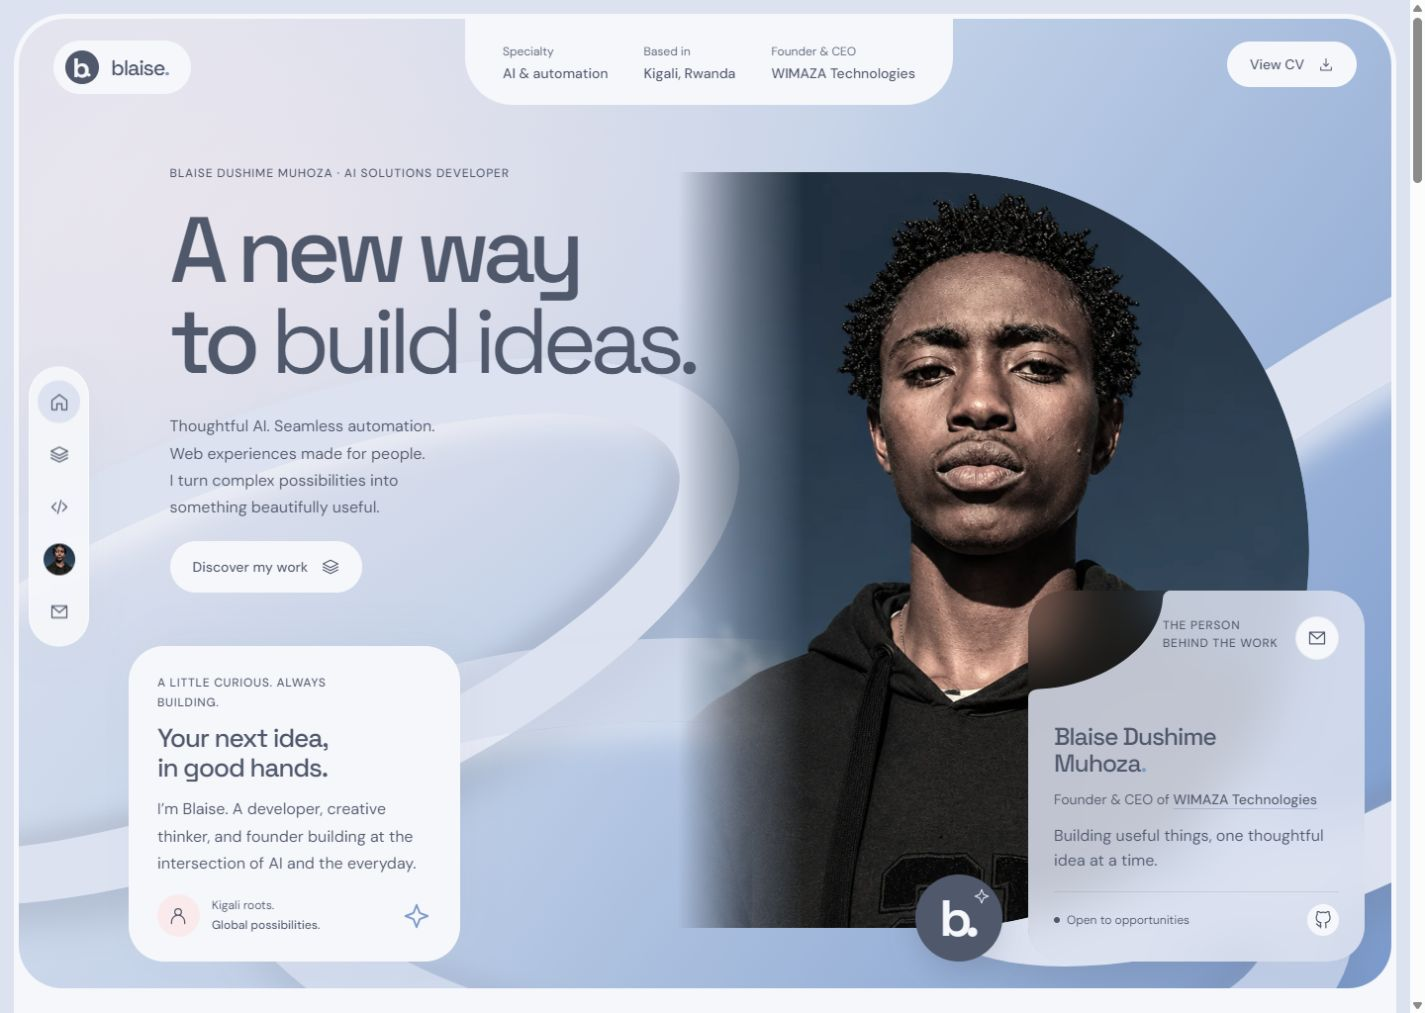
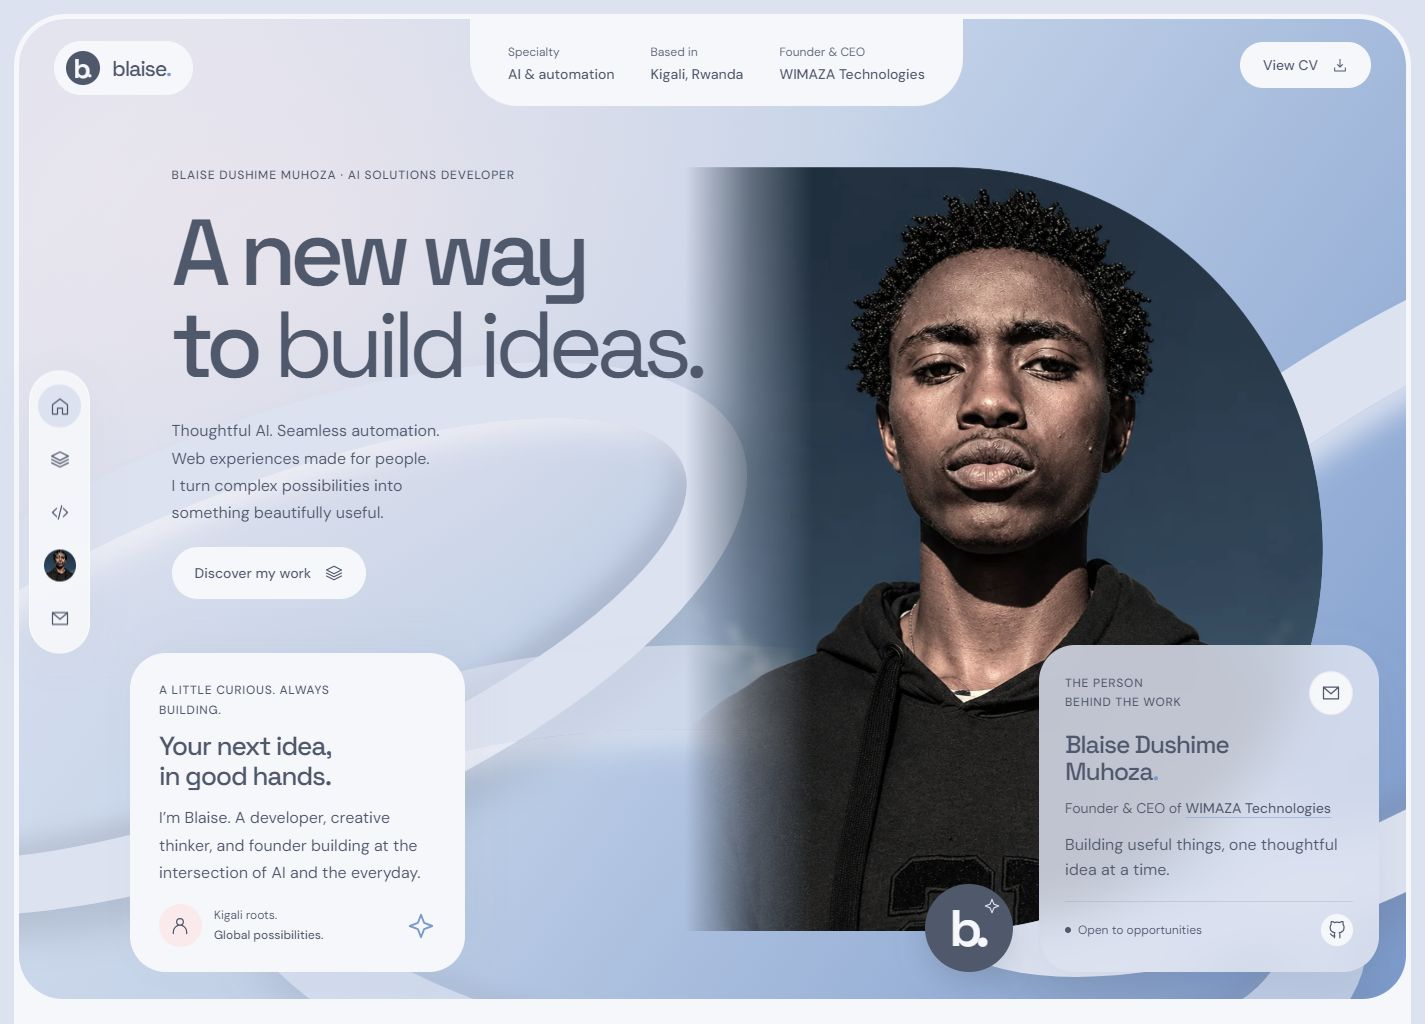
Restore rounded profile card and feature Kora Architect and MAZA TTS

diff --git a/src/styles/redesign.css b/src/styles/redesign.css
@@ -164,6 +164,23 @@ a:hover { color: var(--slate); }
 .chart-grid { background-image: linear-gradient(#50586c15 1px,transparent 1px),linear-gradient(90deg,#50586c15 1px,transparent 1px); }
 .study { background: var(--blush); color: var(--slate); }
 .study-art { background: radial-gradient(ellipse at 100% 0, var(--paper), transparent 80%); }
+.kora { background: var(--mist); }
+.kora-art { width: 100%; height: 100%; position: relative; padding: 28px 32px; background: radial-gradient(ellipse at 100% 0, var(--blush), transparent 80%); }
+.kora .art-wordmark > span { color: var(--slate); font-weight: 400; }
+.kora-drawing { display: block; width: 100%; height: calc(100% - 65px); margin-top: 12px; }
+.kora .art-footer { color: var(--slate); left: 32px; bottom: 36px; font-size: .65rem; letter-spacing: .06em; }
+.case-study .kora-drawing { max-width: 850px; margin-inline: auto; }
+.maza { background: var(--slate); color: var(--paper); }
+.maza-art { width: 100%; height: 100%; position: relative; padding: 28px 32px; background: radial-gradient(ellipse at 100% 100%, #7b9acc75, transparent 80%); }
+.maza .art-wordmark > span { color: var(--mist); font-weight: 400; }
+.maza-wave { display: flex; justify-content: center; align-items: center; gap: 5px; height: 115px; margin-top: 28px; }
+.maza-wave i { width: 7px; max-width: 2%; height: var(--bar-height); background: var(--mist); border-radius: 20px; }
+.maza-wave i:nth-child(3n) { background: var(--blush); }
+.maza-phrase { text-align: center; font-family: var(--heading); font-size: clamp(1.15rem, 2vw, 1.65rem); margin-top: 8px; }
+.maza .art-footer, .maza .visual-caption { color: var(--mist); }
+.maza .art-footer { left: 32px; bottom: 36px; font-size: .6rem; letter-spacing: .07em; }
+.case-study .maza-wave { height: 170px; margin-top: 45px; }
+.case-story .source-note a, .case-body aside a { text-decoration: underline; text-underline-offset: 4px; }
 .study .art-wordmark > span { color: var(--blue); }
 .learning-steps > span { border-color: #50586c40; }
 .learning-steps > i { background: var(--blue); }
@@ -378,7 +395,7 @@ a:hover { color: var(--slate); }
   .not-found { padding-top: 125px; }
 }
 
-/* Real project previews and a portrait with an open, concave card corner. */
+/* Real project previews, a D-shaped portrait, and rounded profile cards. */
 .site-shell { border-radius: 52px; }
 .hero-intro-card { bottom: 27px; border-radius: 36px; }
 .hero-intro-card:before { display: none; }
@@ -431,21 +448,14 @@ a:hover { color: var(--slate); }
   border-radius: 36px;
   border: 0;
   mask: none;
-  clip-path: url(#profile-card-cutout);
   transition: transform .35s, background .35s;
 }
-.portrait-masks { position: absolute; pointer-events: none; }
 .hero-profile-card:hover { transform: translateY(-4px); background: #e4e9f5ed; }
 .hero-profile-card .profile-card-heading {
-  position: relative;
-  min-height: 108px;
-  align-items: flex-start;
-  padding-left: 110px;
-  padding-right: 47px;
-  margin-bottom: 0;
+  align-items: center;
+  margin-bottom: 16px;
 }
 .hero-profile-card .profile-card-heading .card-kicker { font-size: .75rem; line-height: 1.55; margin: 0; }
-.hero-profile-card .profile-card-heading > .round-link { position: absolute; right: 0; top: 0; }
 .profile-card-name { font-size: 1.55rem; line-height: 1.12; letter-spacing: -.045em; margin-bottom: 12px; }
 .profile-card-name > span { color: var(--blue); }
 .hero-profile-card > .profile-role { font-size: .875rem; line-height: 1.55; margin-bottom: 12px; }
@@ -488,7 +498,6 @@ a:hover { color: var(--slate); }
 @media (max-width:1200px) {
   .hero-portrait { top: 170px; width: 50%; right: 5%; height: 77%; }
   .hero-profile-card { width: 300px; padding: 24px; }
-  .hero-profile-card .profile-card-heading { padding-left: 96px; min-height: 100px; padding-right: 40px; }
   .hero-profile-card .profile-card-heading .card-kicker { font-size: .7rem; }
   .hero-seal { right: 350px; }
 }
@@ -505,8 +514,6 @@ a:hover { color: var(--slate); }
   .hero-portrait { --portrait-angle: 0deg; top: 445px; right: 9%; bottom: auto; width: 82%; height: 550px; }
   .portrait-picture { border-radius: 0 58% 58% 0 / 0 50% 50% 0; }
   .hero-profile-card { right: 15px; bottom: 25px; width: min(290px, calc(100% - 75px)); padding: 22px; border-radius: 30px; }
-  .hero-profile-card { clip-path: url(#profile-card-cutout-mobile); }
-  .hero-profile-card .profile-card-heading { min-height: 82px; padding-left: 74px; padding-right: 38px; }
   .hero-profile-card .profile-card-heading .card-kicker { font-size: .7rem; }
   .profile-card-name { font-size: 1.4rem; }
   .hero-profile-card > .profile-role { font-size: .875rem; }

diff --git a/src/data/projects.ts b/src/data/projects.ts
@@ -2,6 +2,7 @@ export type Project = {
   slug: string; title: string; category: string; description: string;
   tags: string[]; theme: string; label: string;
   github?: string; live?: string; intro: string;
+  upstream?: { name: string; url: string };
   preview?: { src: string; alt: string; width: number; height: number; cropTop?: number };
   challenge: string; approach: string; features: string[];
   source: string;
@@ -54,15 +55,27 @@ export const projects: Project[] = [
     source: 'Project scope is drawn from the supplied LinkedIn listing. The visual is an abstract illustration of the video generation workflow.',
   },
   {
-    slug: 'viper-trade-logger', title: 'Viper Trade Logger', category: 'PRODUCT ENGINEERING',
-    description: 'An execution-focused trading journal with rule-based setup cards and performance analytics.',
-    tags: ['React', 'TypeScript', 'Firebase'], theme: 'trading', label: 'Analytics interface concept',
-    github: 'https://github.com/mantis-rei/Viper-Td-Logger', live: 'https://viper-td-logger.vercel.app',
-    intro: 'A futures trading journal and analytics application, paired with an optional TradingView indicator. The project focuses on documenting execution and reviewing performance.',
-    challenge: 'A useful trading journal needs to capture the context behind a decision, keep setup rules visible, and make review accessible across devices.',
-    approach: 'I combined setup cards, risk calculations, screenshot storage, and performance analytics in a React and TypeScript application with Firebase cloud synchronization.',
-    features: ['Rule-based setup cards and risk-to-reward calculations.', 'Firebase Authentication and Cloud Firestore synchronization.', 'An IndexedDB screenshot vault for trade review.', 'Performance analytics and an optional Pine Script companion.'],
-    source: 'Project scope is based on the public repository README. The portfolio illustration uses sample chart data and does not represent trading results.',
+    slug: 'kora-architect', title: 'Kora Architect', category: 'DESIGN TECHNOLOGY',
+    description: 'From hand-drawn floorplans to editable parametric 3D models, with Rwanda-style roofs.',
+    tags: ['Floorplan sketches', 'Parametric 3D', 'Roof design'], theme: 'kora', label: 'Sketch-to-model illustration',
+    github: 'https://github.com/mantis-rei/Kora-Architect',
+    intro: 'Kora Architect explores an end-to-end system for converting hand-drawn floorplan sketches into fully editable parametric 3D models with Rwanda-style roofs.',
+    challenge: 'Moving from a floorplan sketch to an editable building model requires a bridge between a quick visual idea and a structured architectural representation.',
+    approach: 'The project centers on a sketch-to-model workflow, pairing parametric editing with roof forms relevant to Rwandan architecture.',
+    features: ['Hand-drawn floorplan sketches as the starting point.', 'Conversion into parametric 3D building models.', 'Editable model outputs.', 'Rwanda-style roof design.'],
+    source: 'Project scope is based on the public GitHub repository description. The visual illustrates the sketch-to-model concept and is not an application screenshot.',
+  },
+  {
+    slug: 'maza-tts', title: 'MAZA TTS', category: 'AI AUDIO',
+    description: 'A CPU-friendly text-to-speech exploration, based on Kyutai’s Pocket TTS.',
+    tags: ['Python', 'PyTorch', 'Text to speech'], theme: 'maza', label: 'Text-to-speech illustration',
+    github: 'https://github.com/mantis-rei/pocket-tts-by-Viper',
+    upstream: { name: 'Kyutai · Pocket TTS', url: 'https://github.com/kyutai-labs/pocket-tts' },
+    intro: 'MAZA TTS is my text-to-speech exploration based on an open-source fork of Kyutai’s Pocket TTS, a lightweight speech generation system designed to run on CPUs.',
+    challenge: 'Making speech generation easier to run locally means reducing dependence on dedicated GPU hardware and hosted inference services.',
+    approach: 'The linked repository provides a Pocket TTS foundation with Python and command-line interfaces, streamed audio generation, and a local HTTP interface.',
+    features: ['CPU-based text-to-speech generation.', 'Streaming audio output.', 'Python library and command-line interfaces.', 'A local HTTP server and web interface.'],
+    source: 'MAZA TTS is the name supplied by Blaise. The linked repository is a fork of Kyutai’s Pocket TTS; capabilities are drawn from its README. The visual is an illustration, not an application screenshot.',
   },
   {
     slug: 'study-craft-ai', title: 'Study Craft AI', category: 'AI FOR EDUCATION',

diff --git a/docs/DEVELOPMENT.md b/docs/DEVELOPMENT.md
@@ -1,6 +1,6 @@
 # Development and deployment
 
-A professional portfolio focused on AI engineering, automation, web products, and cloud computing, built with Astro, TypeScript, and locally hosted DM Sans and Space Grotesk fonts. Includes six indexable project pages, direct live-project links, filters, mobile navigation, a CV link, email copying, and a Kigali clock. The hero uses a mirrored portrait in a D-shaped frame: its straight left edge fades while the right arc stays solid. Motion respects reduced-motion preferences.
+A professional portfolio focused on AI engineering, automation, web products, and cloud computing, built with Astro, TypeScript, and locally hosted DM Sans and Space Grotesk fonts. Includes seven indexable project pages, direct live-project links, filters, mobile navigation, a CV link, email copying, and a Kigali clock. The hero uses a mirrored portrait in a D-shaped frame: its straight left edge fades while the right arc stays solid. The foreground profile card has fully rounded corners. Motion respects reduced-motion preferences.
 
 ## Development
 
@@ -15,7 +15,7 @@ npm run preview
 ```
 
 The default local URL is http://127.0.0.1:4321/web-repo/.
-The production build checks Astro and TypeScript first. Verification checks all eight HTML pages, local links/assets, SEO metadata, JSON-LD, sitemap, robots.txt, the supplied CV and project links, and optimized images.
+The production build checks Astro and TypeScript first. Verification checks all nine HTML pages, local links/assets, SEO metadata, JSON-LD, sitemap, robots.txt, the supplied CV and project links, and optimized images.
 
 Always deploy `dist` after building. The root `Index.html` is retained as a legacy reference and is not the Astro entry point or deployment output. GitHub, Vercel, and Netlify builds all use the same `src` files and current design.
 
@@ -30,9 +30,9 @@ netlify.toml sets BASE_PATH=/ and SITE_URL=https://viper1.netlify.app (the exist
 
 ## Vercel
 
-The requested production hostname is **muhoza-blaise.vercel.app**. It returned Vercel's DEPLOYMENT_NOT_FOUND response when checked; this does not reserve or guarantee the hostname. Account access is required to assign it and publish.
+The live production URL is **https://viper-one-pink.vercel.app/**, deployed by the GitHub-linked Vercel project **viper**. The profile card uses its original rounded corners, without the former concave cutout.
 
-Import mantis-rei/web-repo using the Astro framework preset and name the project muhoza-blaise. The included vercel.json builds and verifies the static site and publishes dist. On Vercel, config/deployment.mjs uses the root path and the project's production hostname for canonical URLs and sitemap links. Set SITE_URL=https://muhoza-blaise.vercel.app in Vercel for the chosen production alias, then deploy. If Vercel system hostname variables are unavailable, the configuration falls back to that requested origin.
+The included vercel.json builds and verifies the static site and publishes dist. On Vercel, config/deployment.mjs uses the root path and the project's production hostname for canonical URLs and sitemap links. For a custom build outside Vercel, set SITE_URL=https://viper-one-pink.vercel.app and BASE_PATH=/ before building. The previously requested muhoza-blaise.vercel.app alias has not been assigned.
 
 ## Content
 
@@ -47,7 +47,7 @@ Import mantis-rei/web-repo using the Astro framework preset and name the project
 - public/images/blaise-portrait.webp: optimized local copy of the supplied Cloudinary portrait.
 - public/images/pezaas-preview.webp and outreachhub-preview.webp: optimized copies of the supplied project screenshots. The OutreachHub browser chrome is cropped in CSS.
 
-Profile, education, WIMAZA role, Pezaas, OutreachHub, and VEO Stream use the supplied LinkedIn screenshots. Easy Fine-Tuner and Viper Trade Logger use their public GitHub READMEs. Study Craft AI uses the public repository description and README. The CEO role, company website, PDF Host CV, Pezaas and OutreachHub live URLs, and real screenshot previews were supplied directly by Blaise. The contact email comes from the previous portfolio.
+Profile, education, WIMAZA role, Pezaas, OutreachHub, and VEO Stream use the supplied LinkedIn screenshots. Easy Fine-Tuner uses its public GitHub README. Study Craft AI uses the public repository description and README. Kora Architect uses its public repository description; implementation languages are not asserted. MAZA TTS is Blaise's supplied name for the pocket-tts-by-Viper fork, with Kyutai's Pocket TTS credited as its foundation and README used for capability descriptions. The CEO role, company website, PDF Host CV, Pezaas and OutreachHub live URLs, and real screenshot previews were supplied directly by Blaise. The contact email comes from the previous portfolio.
 
 Pezaas and OutreachHub show supplied website screenshots. The other project artwork remains illustrative and is identified on detail pages. No unverified customer counts, testimonials, or performance metrics are included. Forked repositories are not presented as original work.
 

diff --git a/README.md b/README.md
@@ -7,7 +7,7 @@
 Building useful products with AI, workflow automation, and modern web technologies.<br/>
 Based in Kigali, Rwanda. Open to collaboration worldwide.
 
-[WIMAZA Technologies](https://wimaza.vercel.app/) · [LinkedIn](https://www.linkedin.com/in/ukomeye/) · [View CV](https://pdfhost.io/v/eD8pKwPAVc_DMB_CV) · [Get in touch](mailto:bdushime34@gmail.com)
+[Live portfolio](https://viper-one-pink.vercel.app/) · [WIMAZA Technologies](https://wimaza.vercel.app/) · [LinkedIn](https://www.linkedin.com/in/ukomeye/) · [View CV](https://pdfhost.io/v/eD8pKwPAVc_DMB_CV) · [Get in touch](mailto:bdushime34@gmail.com)
 
 [![Build and verification](https://github.com/mantis-rei/web-repo/actions/workflows/deploy.yml/badge.svg)](https://github.com/mantis-rei/web-repo/actions/workflows/deploy.yml)
 
@@ -17,7 +17,7 @@ Based in Kigali, Rwanda. Open to collaboration worldwide.
 
 ## The portfolio
 
-A responsive portfolio built with **Astro and TypeScript**, featuring six dedicated project pages, real product previews, and a visual identity in powder blue, slate, and blush. The portrait's D-shaped frame fades along its straight edge while keeping the arc crisp.
+A responsive portfolio built with **Astro and TypeScript**, featuring seven dedicated project pages, real product previews, and a visual identity in powder blue, slate, and blush. The portrait's D-shaped frame fades along its straight edge while keeping the arc crisp, alongside a fully rounded profile card.
 
 Content is rendered as static HTML, with unique page metadata, social previews, structured data, and a sitemap. Local fonts, optimized images, accessible navigation, and reduced-motion support keep the experience considered across desktop and mobile.
 
@@ -29,10 +29,11 @@ Content is rendered as static HTML, with unique page metadata, social previews, 
 | **Pezaas** | An Astro-based social media services platform for Rwanda | [Live website](https://pezaas.vercel.app/) |
 | **OutreachHub** | A React workspace for lead generation and customer outreach | [Live website](https://outreachhub-dc64f.web.app/) |
 | **VEO Stream** | A Python and API-based cinematic video generation experience | Featured in the portfolio |
-| **Viper Trade Logger** | A React, TypeScript, and Firebase trading journal | [Live website](https://viper-td-logger.vercel.app) · [Source](https://github.com/mantis-rei/Viper-Td-Logger) |
+| **Kora Architect** | Hand-drawn floorplans to editable parametric 3D models with Rwanda-style roofs | [Repository](https://github.com/mantis-rei/Kora-Architect) |
+| **MAZA TTS** | CPU-based speech generation exploration, based on Kyutai’s Pocket TTS | [Repository](https://github.com/mantis-rei/pocket-tts-by-Viper) · [Upstream](https://github.com/kyutai-labs/pocket-tts) |
 | **Study Craft AI** | Guided, step-by-step learning built with React and JavaScript | [Live website](https://study-craft-ai-seven.vercel.app/) · [Source](https://github.com/mantis-rei/Study-Craft-AI) |
 
-Pezaas and OutreachHub use supplied website screenshots. Other project visuals are presentation illustrations, identified on their detail pages.
+Pezaas and OutreachHub use supplied website screenshots. Other project visuals are presentation illustrations, identified on their detail pages. MAZA TTS is presented as an open-source exploration with its Pocket TTS foundation credited.
 
 ## Run locally
 
@@ -56,6 +57,6 @@ The build checks Astro and TypeScript. Verification covers generated pages, loca
 
 The same Astro source powers every deployment. Publish the generated `dist` directory to use the current design; the root `Index.html` is a preserved legacy reference.
 
-Vercel configuration is included for the requested `muhoza-blaise.vercel.app` hostname. A deployment is live only after Vercel assigns the hostname and completes publication.
+The portfolio is live on Vercel at **[viper-one-pink.vercel.app](https://viper-one-pink.vercel.app/)**. The GitHub-linked Vercel project builds the same Astro source and publishes `dist`.
 
 See the [development and deployment guide](docs/DEVELOPMENT.md) for hosting configuration, content editing, and project structure.
